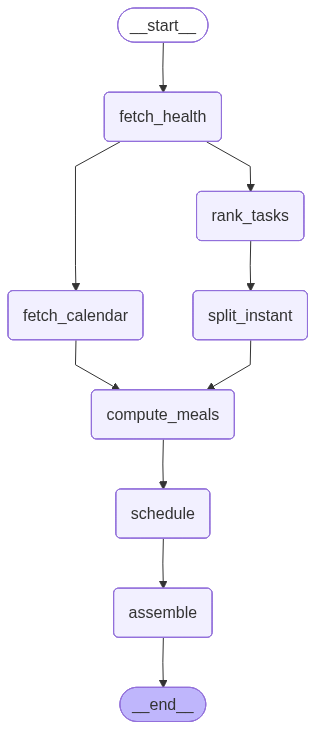
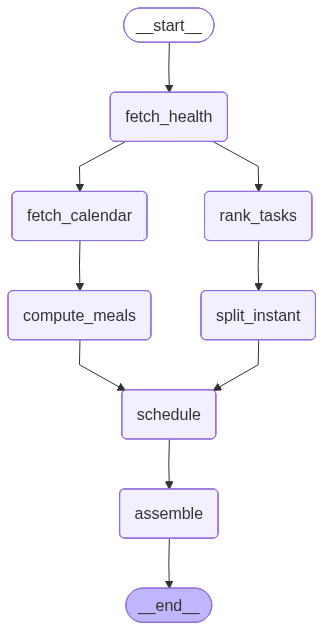
fix bug-The graph topology caused `compute_meals_node` to run twice

Changed region(s): [[0.0, 0.0, 1.0, 0.9952]]

diff --git a/graphs/schedule_graph.py b/graphs/schedule_graph.py
@@ -4,23 +4,27 @@ LangGraph: full day schedule generation.
 Topology:
 
     START
-      ├──► fetch_health ────┐
-      ├──► fetch_calendar ──┤  (parallel fan-out)
-      └──► rank_tasks ──────┤
-                            ▼
-                       split_instant
-                            ▼
-                       compute_meals
-                            ▼
-                        schedule
-                            ▼
-                        assemble
-                            ▼
-                          END
+      ▼
+    fetch_health
+      │
+      ├──► fetch_calendar ──► compute_meals ─┐
+      │                                       │
+      └──► rank_tasks ──► split_instant ──────┤
+                                              ▼
+                                          schedule
+                                              ▼
+                                          assemble
+                                              ▼
+                                            END
 
-The three fan-out branches run concurrently — same shape as the original
-asyncio.gather call. After they converge, the sequential stages process the
-combined state.
+`compute_meals` depends only on `fetch_calendar` (it needs fixed_blocks) — NOT
+on `split_instant`. Earlier we wired both branches into `compute_meals` to
+"converge" them, but LangGraph fires a node once per incoming branch
+completion, not once per super-step where all in-edges become ready. That
+caused `compute_meals` to run twice and place lunch/dinner blocks twice.
+
+Convergence happens at `schedule` instead, which legitimately needs subtasks
+(from split_instant) AND free_windows-with-meals (from compute_meals).
 """
 from datetime import date
 from functools import lru_cache
@@ -65,13 +69,16 @@ def build_schedule_graph():
     graph.add_edge("fetch_health", "fetch_calendar")
     graph.add_edge("fetch_health", "rank_tasks")
 
-    # split_instant depends on rank_tasks; compute_meals waits for calendar +
-    # split_instant. LangGraph waits for all in-edges to a node before invoking it.
+    # compute_meals has ONE in-edge (fetch_calendar). Putting it after both
+    # fetch_calendar AND split_instant made it fire twice — see the topology
+    # docstring above.
     graph.add_edge("rank_tasks", "split_instant")
     graph.add_edge("fetch_calendar", "compute_meals")
-    graph.add_edge("split_instant", "compute_meals")
 
+    # `schedule` is the real convergence point — it needs subtasks AND the
+    # meal-aware free_windows.
     graph.add_edge("compute_meals", "schedule")
+    graph.add_edge("split_instant", "schedule")
     graph.add_edge("schedule", "assemble")
     graph.add_edge("assemble", END)
 

diff --git a/tests/test_schedule_graph.py b/tests/test_schedule_graph.py
@@ -60,6 +60,35 @@ async def test_run_schedule_graph_end_to_end(
     assert schedule_store[sample_date] is schedule
 
 
+async def test_meals_are_inserted_exactly_once(
+    clean_stores, mock_sonnet, mock_caldav, mock_reminders_sync,
+    sample_task, sample_date,
+):
+    """
+    Regression: an earlier topology wired compute_meals to BOTH fetch_calendar
+    and split_instant, which caused LangGraph to fire compute_meals twice and
+    insert two lunch + two dinner blocks. Guard against that ever returning.
+    """
+    from storage import task_store
+    task_store[sample_task.id] = sample_task
+
+    mock_sonnet.set_structured_response(_LLMSubtaskList(subtasks=[
+        _LLMSubtask(
+            parent_id=sample_task.id, title="Work",
+            estimated_minutes=60, cognitive_load=CognitiveLoad.deep,
+            task_kind=TaskKind.analytical, suggested_date=sample_date,
+        ),
+    ]))
+
+    schedule = await run_schedule_graph(sample_date)
+    meal_blocks = [b for b in schedule.blocks if b.block_type == BlockType.meal]
+    # Exactly one lunch and one dinner — never two of each.
+    assert len(meal_blocks) == 2
+    # Distinct labels — the bug produced two with the same label
+    labels = {b.title for b in meal_blocks}
+    assert len(labels) == 2
+
+
 async def test_run_schedule_graph_with_no_tasks(
     clean_stores, mock_sonnet, mock_caldav, mock_reminders_sync, sample_date,
 ):
